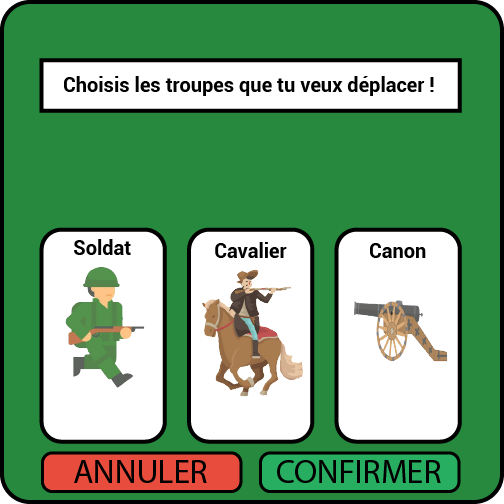
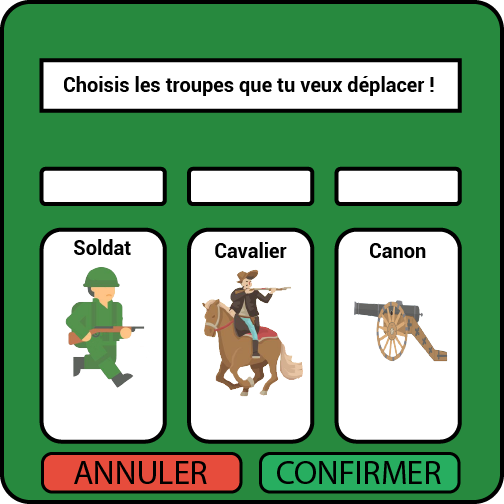
Maj effacer cache

diff --git a/src/Jeu.java b/src/Jeu.java
@@ -75,7 +75,7 @@ public class Jeu {
 	 */
 	public void effacerCache()
 	{
-		for(File file: new java.io.File("C:\\Users\\user\\git\\RISKV2\\img\\cache").listFiles()) 
+		for(File file: new java.io.File("img\\cache").listFiles()) 
 	    if (!file.isDirectory()) 
 	    {
 	    	file.delete();
@@ -1646,6 +1646,8 @@ public class Jeu {
 			}
 			else
 			{
+				Main.affichage.affichageSelectionSoldat++;
+				Main.affichage.afficherCadreDeplacement();
 				Main.affichage.afficherInfosHaut(11);
 			}
 		
@@ -1661,6 +1663,8 @@ public class Jeu {
 			}
 			else
 			{
+				Main.affichage.affichageSelectionCavalier++;
+				Main.affichage.afficherCadreDeplacement();
 				Main.affichage.afficherInfosHaut(12);
 			}
 		}
@@ -1674,7 +1678,10 @@ public class Jeu {
 			}
 			else
 			{
+				Main.affichage.affichageSelectionCanon++;
+				Main.affichage.afficherCadreDeplacement();
 				Main.affichage.afficherInfosHaut(13);
+				
 			}
 			
 		}
@@ -1705,6 +1712,7 @@ public class Jeu {
 				}
 			}
 
+			Main.affichage.resetAffichageTroupesSelectionees();
 			unitesDeDeplacement.clear();
 			
 			return false;
@@ -1727,6 +1735,7 @@ public class Jeu {
 				couche = 5;
 				mode = 3;
 
+				Main.affichage.resetAffichageTroupesSelectionees();
 				unitesDeDeplacement.clear();
 				
 				return false;

diff --git a/src/Affichage.java b/src/Affichage.java
@@ -602,6 +602,11 @@ public class Affichage {
 	public void afficherCadreDeplacement()
 	{
 		StdDraw.picture(0.5, 0.5, "img/troupesDeplacement.png");
+		
+		StdDraw.text(0.37, 0.35, ""+this.affichageSelectionSoldat);
+		StdDraw.text(0.5, 0.35, ""+this.affichageSelectionCavalier);
+		StdDraw.text(0.63, 0.35, ""+this.affichageSelectionCanon);
+		
 		StdDraw.text(0.37, 0.25, ""+Main.risk.territoire1.getNombreSoldats());
 		StdDraw.text(0.5, 0.25, ""+Main.risk.territoire1.getNombreCavaliers());
 		StdDraw.text(0.63, 0.25, ""+Main.risk.territoire1.getNombreCanons());
